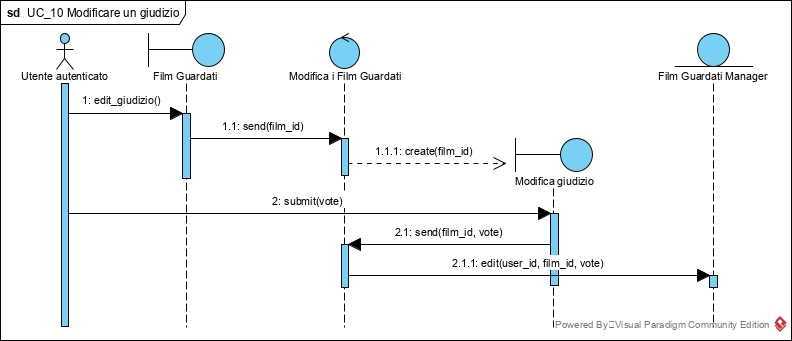
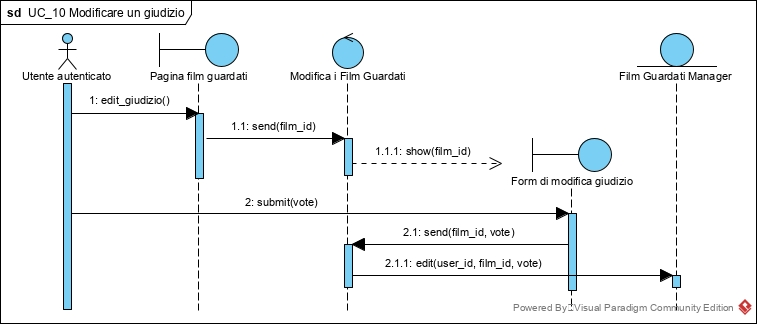
Introduzione boundary object model

Changed region(s): [[0.0, 0.0, 1.0, 0.9877], [0.3646, 0.0926, 0.5469, 0.2469]]

diff --git a/Deliverables/Requirements Analysis Documents.md b/Deliverables/Requirements Analysis Documents.md
@@ -68,14 +68,19 @@
         5. [Suggerimenti](#suggerimenti)
             1. [UC_17: Suggerire un film a un account amico](#uc_17-suggerire-un-film-a-un-account-amico)
             2. [UC_18: Suggerimento automatico di un film](#uc_18-suggerimento-automatico-di-un-film)
-    6. Object model
+    6. [Object model](#object-model)
+        1. Ricerca e consulazione
+        2. Gestione account
+        3. Gestione dei film guardati
+        4. Gestione delle liste
+        5. Suggerimenti
     7. Dynamic model
     8. [Sequence diagrams](#sequence-diagrams)
-        1. [Ricerca e consulazione](#ricerca-e-consultazione)
-        2. [Gestione account](#gestione-account)
-        3. [Gestione dei film guardati](#gestione-dei-film-guardati)
-        4. [Gestione delle liste](#gestione-delle-liste)
-        5. [Suggerimenti](#suggerimenti)
+        1. Ricerca e consulazione
+        2. Gestione account
+        3. Gestione dei film guardati
+        4. Gestione delle liste
+        5. Suggerimenti
     9. User interface-navigational paths and screen mock-ups
 4. Glossary
 
@@ -503,7 +508,7 @@ Condizione di uscita | La lista viene cancellata.
 **Nome** | **Aggiornare la presenza di film nelle liste**
 ---------|---
 Attori | Utente autenticato.
-Condizione di entrata | L’utente deve selezionare le liste in cui inserire un film, e deselezionare le liste in cui rimuovere un film tramite un popup.
+Condizione di entrata | L’utente deve selezionare le liste in cui inserire un film, e deselezionare le liste in cui rimuovere un film, nell'area di aggiornamento presenza film in liste.
 Flusso di eventi | <br/><ol><li>L’utente seleziona le liste in cui inserire il film, e deseleziona le liste in cui rimuovere il film se già presente (quindi già selezionate)<li>Il sistema aggiunge il film alle liste selezionate, e rimuove il film dalle liste deselezionate</ol>
 Condizione di uscita | Il film viene aggiunto/rimosso dalle liste selezionate/deselezionate.
 
@@ -533,6 +538,40 @@ Attori | Utente autenticato.
 Condizione di entrata | L’utente è sul sito.
 Flusso di eventi | <br/><ol><li>L’utente accede alla funzionalità di suggerimento film<li>Il sistema seleziona un film in linea con i gusti dell’utente</ol>
 Condizione di uscita | Il film selezionato verrà suggerito.
+
+## Object model
+Boundary objects:
+* **Area di ricerca**: offre le funzioni di ricerca di film, artisti e utenti
+* **Risultati di ricerca**: presenta i risultati elaborati dopo una ricerca
+* **Pagina film**: mostra le informazioni di un film
+* **Pagina artista**: mostra le informazioni di un artista
+* **Pagina utente**: mostra le informazioni di un utente (in funzione della visibilità di queste)
+* **Form di registrazione**: richiede l'inserimento di informazioni necessarie alla creazione di un nuovo account
+* **Pagina iniziale**: mostra informazioni rilevanti per l'utente. Se autenticato, mostra film da guardare, ultime
+attività degli amici e altri contenuti suggeriti. Se ospite, altre informazioni di tendenza.
+* **E-Mail attivazione account**: descrive la procedura per attivare un nuovo account
+* **Pagina primi passi**: consente di inserire le prime preferenze cinematografiche dell'utente novizio
+* **Form di accesso**: consente di autenticarsi in un account esistente
+* **Form di richiesta cambio password**: richiede l'inserimento della password attuale per cominciare la procedura di
+aggiornamento della stessa
+* **E-Mail cambio password**: descrive la procedura per cambiare la password
+* **Form di conferma cambio password**: richiede l'inserimento delle password corrente e nuova per poi aggiornarla
+* **Conferma amicizia inviata**: notifica l'avvenuta richiesta di amicizia
+* **Conferma amicizia accettata**: notifica l'avvenuta conferma di amicizia
+* **Conferma amicizia rifiutata**: notifica l'avvenuto rifiuto di amicizia
+* **Form di aggiunta giudizio**: richiede l'inserimento del giudizio da salvare
+* **Pagina film guardati**: mostra i giudizi
+* **Form di modifica giudizio**: richiede l'inserimento del giudizio da aggiornare
+* **Form di creazione lista**: richiede l'inserimento delle informazioni necessarie alla creazione di una nuova lista
+* **Pagina lista**: mostra le informazioni di una lista
+* **Conferma lista modificata**: notifica l'avvenuta modifica di una lista
+* **Conferma lista eliminata**: notifica l'avvenuta rimozione di una lista
+* **Form di aggiornamento presenza film in liste**: richiede la selezione delle sole proprie liste in cui un
+determinato film deve essere presente
+* **Conferma lista seguita**: notifica che si riceveranno aggiornamenti riguardo i cambiamenti di una lista
+* **Form di selezione amici**: richiede la selezione di almeno uno tra i propri amici
+* **Pagina di suggerimento automatico**: permette di richiedere il suggerimento automatico di un film sconosciuto
+* **Area di presentazione film**: suggerisce un film
 
 ## Sequence diagrams
 
